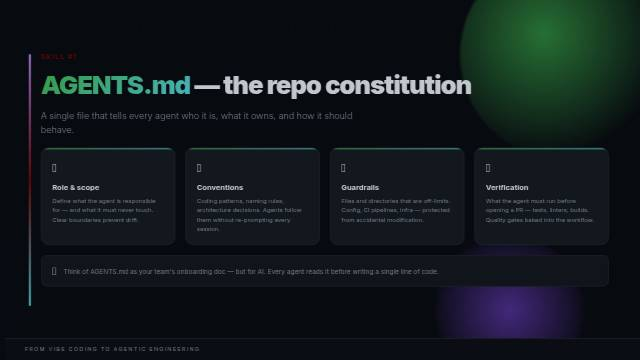
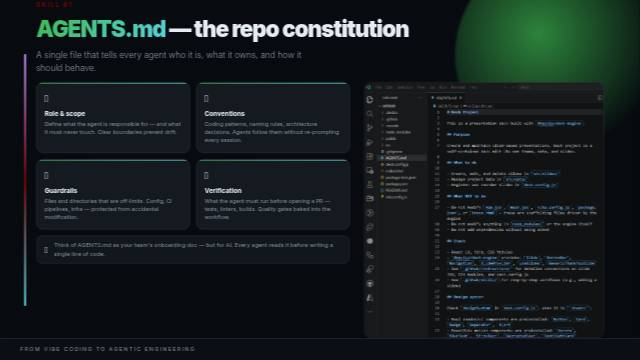
Auto-save from DECKIO — 2026-04-07T08:39

diff --git a/src/slides/AgentsMdSlide.jsx b/src/slides/AgentsMdSlide.jsx
@@ -1,4 +1,5 @@
 import { BottomBar, Slide } from '@deckio/deck-engine'
+import agentsMdScreenshot from '../data/agents-md-screenshot.png'
 import styles from './AgentsMdSlide.module.css'
 
 export default function AgentsMdSlide({ index, project }) {
@@ -17,35 +18,43 @@ export default function AgentsMdSlide({ index, project }) {
           A single file that tells every agent who it is, what it owns, and how it should behave.
         </p>
 
-        <div className={styles.cards}>
-          <div className={styles.card}>
-            <div className={styles.cardIcon}>🎯</div>
-            <h3>Role &amp; scope</h3>
-            <p>Define what the agent is responsible for — and what it must never touch. Clear boundaries prevent drift.</p>
-          </div>
-          <div className={styles.card}>
-            <div className={styles.cardIcon}>📐</div>
-            <h3>Conventions</h3>
-            <p>Coding patterns, naming rules, architecture decisions. Agents follow them without re-prompting every session.</p>
-          </div>
-          <div className={styles.card}>
-            <div className={styles.cardIcon}>🚧</div>
-            <h3>Guardrails</h3>
-            <p>Files and directories that are off-limits. Config, CI pipelines, infra — protected from accidental modification.</p>
-          </div>
-          <div className={styles.card}>
-            <div className={styles.cardIcon}>✅</div>
-            <h3>Verification</h3>
-            <p>What the agent must run before opening a PR — tests, linters, builds. Quality gates baked into the workflow.</p>
-          </div>
-        </div>
+        <div className={styles.columns}>
+          <div className={styles.left}>
+            <div className={styles.cards}>
+              <div className={styles.card}>
+                <div className={styles.cardIcon}>🎯</div>
+                <h3>Role &amp; scope</h3>
+                <p>Define what the agent is responsible for — and what it must never touch. Clear boundaries prevent drift.</p>
+              </div>
+              <div className={styles.card}>
+                <div className={styles.cardIcon}>📐</div>
+                <h3>Conventions</h3>
+                <p>Coding patterns, naming rules, architecture decisions. Agents follow them without re-prompting every session.</p>
+              </div>
+              <div className={styles.card}>
+                <div className={styles.cardIcon}>🚧</div>
+                <h3>Guardrails</h3>
+                <p>Files and directories that are off-limits. Config, CI pipelines, infra — protected from accidental modification.</p>
+              </div>
+              <div className={styles.card}>
+                <div className={styles.cardIcon}>✅</div>
+                <h3>Verification</h3>
+                <p>What the agent must run before opening a PR — tests, linters, builds. Quality gates baked into the workflow.</p>
+              </div>
+            </div>
 
-        <div className={styles.callout}>
-          <span className={styles.calloutIcon}>💡</span>
-          <p>
-            Think of AGENTS.md as your team's onboarding doc — but for AI.
-            Every agent reads it before writing a single line of code.
-          </p>
+            <div className={styles.callout}>
+              <span className={styles.calloutIcon}>💡</span>
+              <p>
+                Think of AGENTS.md as your team's onboarding doc — but for AI.
+                Every agent reads it before writing a single line of code.
+              </p>
+            </div>
+          </div>
+
+          <div className={styles.screenshotWrapper}>
+            <img src={agentsMdScreenshot} alt="AGENTS.md in VS Code" className={styles.screenshot} />
+          </div>
         </div>
       </div>
 

diff --git a/src/slides/AgentsMdSlide.module.css b/src/slides/AgentsMdSlide.module.css
@@ -34,7 +34,9 @@
   z-index: 10;
   display: flex;
   flex-direction: column;
-  gap: 20px;
+  gap: 14px;
+  flex: 1;
+  min-height: 0;
 }
 
 .eyebrow {
@@ -46,7 +48,7 @@
 }
 
 .body h1 {
-  font-size: clamp(34px, 4vw, 58px);
+  font-size: clamp(30px, 3.5vw, 48px);
   font-weight: 900;
   line-height: 1.08;
   letter-spacing: -2px;
@@ -60,17 +62,32 @@
 }
 
 .subtitle {
-  font-size: clamp(15px, 1.5vw, 18px);
+  font-size: clamp(14px, 1.4vw, 17px);
   font-weight: 300;
   color: var(--muted-foreground);
   line-height: 1.6;
-  max-width: 640px;
+  max-width: 540px;
+}
+
+.columns {
+  display: grid;
+  grid-template-columns: 1fr 480px;
+  gap: 28px;
+  flex: 1;
+  min-height: 0;
+}
+
+.left {
+  display: flex;
+  flex-direction: column;
+  gap: 12px;
+  min-height: 0;
 }
 
 .cards {
   display: grid;
-  grid-template-columns: repeat(4, 1fr);
-  gap: 20px;
+  grid-template-columns: 1fr 1fr;
+  gap: 12px;
 }
 
 .card {
@@ -78,8 +95,8 @@
   overflow: hidden;
   background: var(--secondary);
   border: 1px solid var(--border);
-  border-radius: 16px;
-  padding: 22px;
+  border-radius: 14px;
+  padding: 16px;
 }
 
 .card::before {
@@ -94,28 +111,28 @@
 }
 
 .cardIcon {
-  font-size: 24px;
-  margin-bottom: 10px;
-}
-
-.card h3 {
-  font-size: 15px;
-  font-weight: 700;
-  color: var(--foreground);
+  font-size: 20px;
   margin-bottom: 6px;
 }
 
+.card h3 {
+  font-size: 13px;
+  font-weight: 700;
+  color: var(--foreground);
+  margin-bottom: 4px;
+}
+
 .card p {
-  font-size: 12px;
+  font-size: 11px;
   color: var(--muted-foreground);
-  line-height: 1.55;
+  line-height: 1.45;
 }
 
 .callout {
   display: flex;
   align-items: center;
-  gap: 14px;
-  padding: 14px 22px;
+  gap: 12px;
+  padding: 10px 16px;
   background: var(--surface-overlay);
   border: 1px solid var(--border);
   border-radius: 12px;
@@ -123,16 +140,31 @@
 }
 
 .calloutIcon {
-  font-size: 22px;
+  font-size: 18px;
   flex-shrink: 0;
 }
 
 .callout p {
-  font-size: 13px;
+  font-size: 11.5px;
   color: var(--muted-foreground);
-  line-height: 1.55;
+  line-height: 1.5;
 }
 
 .callout strong {
   color: var(--foreground);
+}
+
+.screenshotWrapper {
+  border: 1px solid var(--border);
+  border-radius: 14px;
+  overflow: hidden;
+  min-height: 0;
+}
+
+.screenshot {
+  display: block;
+  width: 100%;
+  height: 100%;
+  object-fit: cover;
+  object-position: top left;
 }
